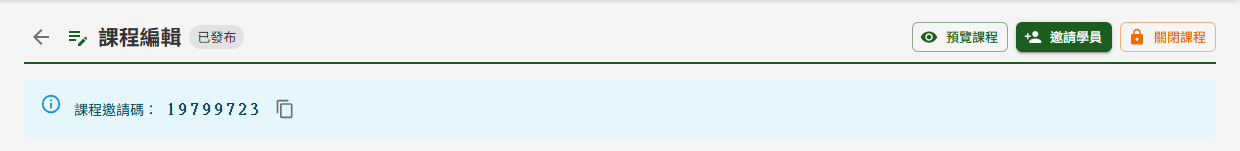
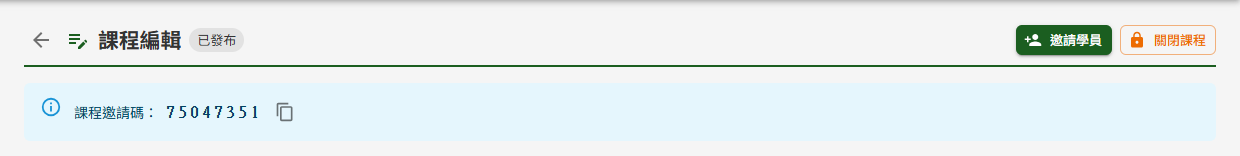
docs(et): 預覽改由 ET01「全部課程」進入、預覽時可唯讀檢視課後問卷 refs #698 (#727)
- ET05：狀態對照表與 et05-19 拿掉「預覽課程」（#701），〈預覽課程〉改寫為由 ET01「全部課程」進入，註明草稿／已關閉／期間已過者無預覽入口；重拍 et05-19
- ET06：補〈預覽時的課後問卷〉（#706），角色表與入口說明改指 ET01
- ET07：角色表預覽入口改指 ET01
- 測試項目：ET05 第 1～3 項、ET07 第 28 項改由「全部課程」預覽；ET06 新增第 21-1 項；重產 ET 測試報告

diff --git a/docs/manuals/_tests/ET-教育訓練文件管理模組.md b/docs/manuals/_tests/ET-教育訓練文件管理模組.md
@@ -213,9 +213,9 @@
 
 | 項次 | 測試內容 |
 |---|---|
-| 1 | 開啟一門草稿課程，標題列右上應只有「預覽課程」，底部動作列應有「刪除草稿」「取消」「儲存草稿」「儲存並發布」。 |
-| 2 | 開啟一門已發布課程，底部動作列只剩「取消」「儲存」，標題列右上出現「預覽課程」「邀請學員」「關閉課程」。 |
-| 3 | 於草稿課程按「預覽課程」，應以學員視角開啟，全部章節皆可點選、測驗僅能檢視題目無法作答，且不留下任何學習進度。 |
+| 1 | 開啟一門草稿課程，標題列右上應不顯示任何操作按鈕（沒有「預覽課程」），底部動作列應有「刪除草稿」「取消」「儲存草稿」「儲存並發布」。 |
+| 2 | 開啟一門已發布課程，底部動作列只剩「取消」「儲存」，標題列右上出現「邀請學員」「關閉課程」，沒有「預覽課程」。 |
+| 3 | 以教師甲於「全部課程」點本人的已發布課程，應以學員視角開啟，全部章節皆可點選、測驗僅能檢視題目無法作答，且不留下任何學習進度；本人的草稿課程應不出現在「全部課程」。 |
 | 4 | 以教師乙於「全部課程」點教師甲的已發布課程，應進入學員視角的預覽頁，而非可編輯的編輯頁。 |
 | 5 | 新增課程僅填課程名稱後按「儲存草稿」，應存檔成功並回到課程列表，該課程狀態為草稿。 |
 | 6 | 草稿課程的受訓對象與起訖時間全部留空，仍應可按「儲存草稿」成功存檔。 |
@@ -306,7 +306,7 @@
 |---|---|
 | 受測課程甲 | 已發布、閱課期間進行中，設有課後問卷（至少 1 題單選、1 題問答）。內容至少兩章：第一章依序為「含 1 支影片的教材」「含 2 支影片的教材」「只有 PDF 文件的教材」「引用已廢止文件的教材」「只引用 Word 或 Excel 文件的教材」「測驗」；第二章至少一份只有說明文字的教材（第 12、13 項）。影片建議各 1～2 分鐘，以縮短觀看時間；測驗的重考次數上限設 2 以上（第 11、12 項需先考不及格再及格） |
 | 已廢止文件 | 「引用已廢止文件的教材」所引用的訓練教材文件（建議 PDF），**於課程發布後**再於文件管理端廢止（第 9 項）——發布前廢止會擋下發布；廢止後不可復原，請另備一份文件專供此用 |
-| 教師甲 | 受測課程甲的建立者，用於新增教材（第 20、21 項）、關閉與再開課（第 22～25 項） |
+| 教師甲 | 受測課程甲的建立者，用於新增教材（第 20、21 項）、預覽課後問卷（第 21-1 項）、關閉與再開課（第 22～25 項） |
 | 學員甲 | 已加入受測課程甲、**尚無任何學習紀錄**——第 1、2、14 項驗的是「第一次進入」與「尚未完課」，有紀錄就驗不到 |
 | 學員乙 | 已加入受測課程甲並**已完課、尚未填寫問卷**，用於問卷填寫（第 15～19 項）；填寫後續用於驗證已填問卷不受完課回退與課程關閉影響（第 20、23 項）。可由學員乙自行學完全部項目備妥 |
 | 學員丙 | 同學員乙之狀態（已完課、未填問卷），**全程不填問卷**，用於完課回退時入口消失（第 21 項）、課程關閉期間無法填寫與再開課後恢復可填寫（第 23、25 項）——學員乙填過之後就驗不到「未填」這一側 |
@@ -339,6 +339,7 @@
 | 19 | 於兩個分頁開啟同一份問卷，於第一個分頁送出後，再於第二個分頁送出，應同樣顯示送出成功，且教師於 ET02 看到該學員僅有一筆填答。 |
 | 20 | 教師甲於受測課程甲新增一份教材後，學員乙的課程進度總項目數應加一、未滿 100%，「我的課程」狀態回到「進行中」，左側仍為「查看我的填答」且可回看；完成新教材後恢復「已完成」。 |
 | 21 | 承上，已完課但尚未填寫問卷的學員丙，於教師新增教材後問卷入口應消失；完成新教材後重新出現「填寫課後問卷」。 |
+| 21-1 | 教師甲於課程列表「全部課程」點受測課程甲預覽，左側最下方應出現「預覽課後問卷」並註明「預覽模式，不可送出」；點入後頁面上方提示「預覽模式：僅供檢視題目，無法送出。」且沒有送出按鈕，ET02 中該課程的問卷已填人數不變。 |
 | 22 | 教師甲關閉受測課程甲後，學員丁進入應顯示「此課程目前關閉中，僅可回看已學內容」；已開放的項目可開啟、影片可播放但不再顯示觀看進度，尚未開放的項目仍為鎖定。 |
 | 23 | 課程關閉期間，學員丙按「填寫課後問卷」應提示「課程已關閉，無法填寫問卷」且沒有送出按鈕；學員乙仍可回看已填內容。 |
 | 24 | 課程關閉期間點測驗項目，應不能開始新的作答，但仍可查看歷次作答紀錄。 |
@@ -397,4 +398,4 @@
 | 25 | 學員丙開始作答且未交卷時由教師甲關閉課程，待系統每日排程執行後，該次作答應已自動提交並計分，出現在學員丙的歷次作答紀錄中。 |
 | 26 | 承上，學員丙再開啟該測驗，應顯示「此課程已關閉，無法再開新作答」、「開始作答」不可按，歷次作答紀錄仍可點閱。 |
 | 27 | 於結果頁按「返回課程」回到課程學習頁後，按瀏覽器上一頁或頁首返回鍵，皆不應回到作答畫面或再次進入結果頁。 |
-| 28 | 教師甲以「預覽課程」點測驗 A，應只顯示題目內容，沒有「開始作答」、剩餘可作答次數與歷次作答紀錄。 |
+| 28 | 教師甲於課程列表「全部課程」點受測課程預覽，點測驗 A，應只顯示題目內容，沒有「開始作答」、剩餘可作答次數與歷次作答紀錄。 |

diff --git a/docs/manuals/et/ET05-課程建立與編輯.md b/docs/manuals/et/ET05-課程建立與編輯.md
@@ -8,8 +8,8 @@
 
 | 角色 | 於本作業可做的事 |
 |---|---|
-| 教師 | 建立新課程；編輯、預覽、發布、關閉與再開課**自己建立的**課程；刪除自己的草稿課程 |
-| 教師、管理者 | 於課程列表「全部課程」分頁點他人的課程，以學員視角預覽內容（不記錄進度、測驗僅供檢視） |
+| 教師 | 建立新課程；編輯、發布、關閉與再開課**自己建立的**課程；刪除自己的草稿課程 |
+| 教師、管理者 | 於課程列表「全部課程」分頁點課程（含本人已發布的課程），以學員視角預覽內容（不記錄進度、測驗僅供檢視） |
 
 一門課程的完整內容包含課程基本資料、章節、教材、測驗與課後問卷，於內容齊備後發布。課程發布後，系統依課程所設的受訓對象，自動將符合的學員加入課程並各寄一封通知信，學員即可於「我的課程」看到這門課程。
 
@@ -27,7 +27,7 @@
 |---|---|
 | 建立新課程 | 點篩選列右側的「新增課程」 |
 | 編輯既有課程 | 於「我建立的」分頁點該課程卡片 |
-| 預覽他人的課程 | 於「全部課程」分頁點該課程卡片，進入學員視角的預覽頁 |
+| 預覽課程（含本人的已發布課程） | 於「全部課程」分頁點該課程卡片，進入學員視角的預覽頁 |
 
 「新增課程」與「我建立的」分頁僅具教師角色者看得到。「全部課程」只列出已發布、在閱課期間內、且本人尚未加入的課程。
 
@@ -44,9 +44,9 @@
 | 課程狀態 | 標題列右上 | 底部動作列 |
 |---|---|---|
 | 新增中（尚未儲存） | 不顯示操作按鈕 | 取消、儲存草稿、儲存並發布（灰色，需先儲存草稿） |
-| 草稿 | 預覽課程 | 刪除草稿、取消、儲存草稿、儲存並發布 |
-| 已發布 | 預覽課程、邀請學員、關閉課程 | 取消、儲存 |
-| 已關閉 | 預覽課程、再開課 | 取消、儲存<br>（按下「再開課」後改為：取消再開課、確認再開課）|
+| 草稿 | 不顯示操作按鈕 | 刪除草稿、取消、儲存草稿、儲存並發布 |
+| 已發布 | 邀請學員、關閉課程 | 取消、儲存 |
+| 已關閉 | 再開課 | 取消、儲存<br>（按下「再開課」後改為：取消再開課、確認再開課）|
 
 「儲存並發布」只在草稿狀態出現。已發布課程的編輯**即時生效、不需重新發布**，因此沒有再發布一次的按鈕。
 
@@ -54,7 +54,9 @@
 
 **預覽課程**
 
-按「預覽課程」以學員視角檢視整門課程，草稿與已關閉的課程也可預覽。預覽期間所有章節皆為開放、**不記錄學習進度**，測驗只能檢視題目、無法作答。
+以學員視角檢視整門課程時，於課程列表「全部課程」分頁點該課程卡片（見 ET01 課程列表）。預覽期間所有章節皆為開放、**不記錄學習進度**，測驗只能檢視題目、無法作答，課後問卷只能檢視題目、無法送出（見 ET06 課程學習）。
+
+> 注意：預覽呈現的是**已儲存**的內容，編輯頁中尚未儲存的修改不會出現在預覽中。「全部課程」只列出已發布且閱課期間未過的課程，因此草稿、已關閉與閱課期間已過的課程沒有預覽入口。
 
 下列前置資料由管理者於平台後台維護，教師無法自行新增，缺漏時請先請管理者處理：
 
@@ -274,7 +276,7 @@
 
 > 重要：邀請碼**於發布當下產生，之後沿用同一組**，常駐顯示於編輯頁上方，可按旁邊的複製鈕取用。
 
-![已發布課程的標題列右上為預覽課程、邀請學員、關閉課程，下方常駐顯示邀請碼](../_images/et/et05-19.png)
+![已發布課程的標題列右上為邀請學員、關閉課程，下方常駐顯示邀請碼](../_images/et/et05-19.png)
 
 發布後仍可繼續編輯課程內容，儲存即生效，不需要再發布一次。但下列編輯**會影響既有學員**：
 

diff --git a/docs/manuals/et/ET06-課程學習.md b/docs/manuals/et/ET06-課程學習.md
@@ -9,7 +9,7 @@
 | 角色 | 於本作業可做的事 |
 |---|---|
 | 學員 | 學習已加入的課程、累積學習進度、作答測驗、完課後填寫課後問卷 |
-| 教師、管理者 | 以預覽身分檢視課程內容（不記錄進度、測驗僅供檢視，操作見 ET05 課程建立與編輯） |
+| 教師、管理者 | 以預覽身分檢視課程內容（不記錄進度，測驗與課後問卷僅供檢視；由課程列表「全部課程」進入，見 ET01 課程列表） |
 
 學員加入課程的方式有三種：課程發布時依受訓對象自動加入、教師以 Email 邀請加入、學員以邀請碼自行加入。加入後課程即出現在「我的課程」，由此進入本作業。
 
@@ -29,7 +29,7 @@
 
 - 左側上方為「課程進度」，下方依章節列出每一份教材與測驗，並以圖示標示已完成、目前所在、未完成與鎖定
 - 右側顯示目前所選項目的內容；點左側其他項目即切換
-- 課程設有課後問卷且已完課時，左側最下方另出現問卷入口（見〈填寫課後問卷〉）
+- 課程設有課後問卷且已完課時，左側最下方另出現問卷入口（見〈填寫課後問卷〉）；預覽時不論完課與否皆出現（見〈預覽時的課後問卷〉）
 
 ![進入課程後，左側依章節列出項目並以圖示標示完成狀態，右側顯示目前所選教材的內容](../_images/et/et06-01.png)
 
@@ -145,6 +145,10 @@
 | 已填寫 | 「查看我的填答」，之後無論課程關閉、完課狀態回到進行中或問卷遭停用，皆可回看 |
 | 尚未填寫，但教師已停用問卷 | 不顯示 |
 | 尚未填寫，且課程已關閉 | 入口仍在，點入後提示「課程已關閉，無法填寫問卷」，沒有送出按鈕；再開課後恢復可填寫 |
+
+#### 預覽時的課後問卷
+
+教師或管理者預覽課程時，課後問卷啟用中即於左側最下方出現「預覽課後問卷」，並註明「預覽模式，不可送出」，不受完課限制。點入後頁面上方提示「預覽模式：僅供檢視題目，無法送出。」，題目只能檢視、沒有送出按鈕，不會留下任何填答。問卷停用時不顯示入口。
 
 ### 課程關閉後的回看
 

diff --git a/docs/manuals/et/ET07-線上測驗.md b/docs/manuals/et/ET07-線上測驗.md
@@ -9,7 +9,7 @@
 | 角色 | 於本作業可做的事 |
 |---|---|
 | 學員 | 作答已加入課程中的測驗；查看成績、逐題對錯與正確答案；回看自己每一次的作答 |
-| 教師、管理者 | 預覽課程時檢視測驗的題目內容，不能作答、不留下作答紀錄（見 ET05 課程建立與編輯） |
+| 教師、管理者 | 預覽課程時檢視測驗的題目內容，不能作答、不留下作答紀錄（由課程列表「全部課程」進入，見 ET01 課程列表） |
 
 測驗是課程章節中的一個項目，及格分數、作答時間與重考次數上限由教師於 ET05 課程建立與編輯設定。學員須先完成同一章節中排在測驗前面的教材，才能點開測驗。
 
